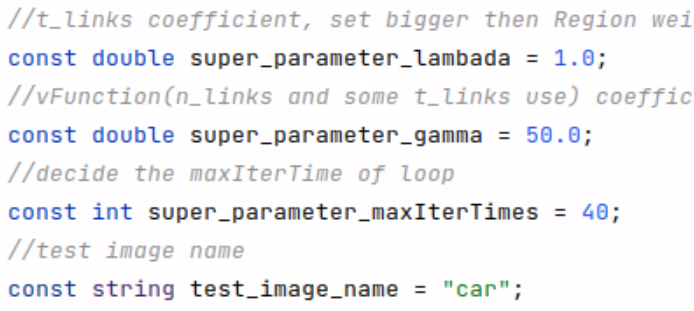
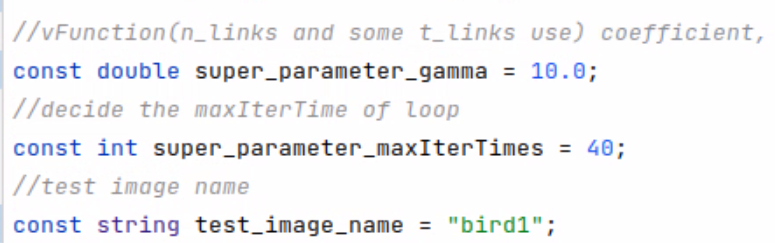
liutao

Changed region(s): [[0.0, 0.0, 1.0, 0.3745], [0.0, 0.5185, 0.9078, 1.0], [0.0, 0.4033, 0.8473, 0.4897]]

diff --git a/main.cpp b/main.cpp
@@ -10,14 +10,13 @@ Rect2d selection;
 bool isDragging = false;
 Mat image;
 
-//t_links coefficient, set bigger then Region weighs more, it should be 1.0 normally.
-const double super_parameter_lambada = 1.0;
+
 //vFunction(n_links and some t_links use) coefficient, also the max_value of vFunction, set bigger then Boundary weighs more
-const double super_parameter_gamma = 50.0;
+const double super_parameter_gamma = 10.0;
 //decide the maxIterTime of loop
 const int super_parameter_maxIterTimes = 40;
 //test image name
-const string test_image_name = "car";
+const string test_image_name = "bird1";
 
 void mouseCallback(int event, int x, int y, int flags, void* userdata)
 {
@@ -50,7 +49,7 @@ void mouseCallback(int event, int x, int y, int flags, void* userdata)
 }
 
 void grabcut_test(Mat &img, Rect2d &interst_area){
-    Segmentation segmentation(img,super_parameter_gamma,super_parameter_lambada,super_parameter_maxIterTimes);
+    Segmentation segmentation(img,super_parameter_gamma,super_parameter_maxIterTimes);
     segmentation.initByRect(interst_area);
     segmentation.iter();
     Mat fgd;

diff --git a/segmentation/segmentation.cpp b/segmentation/segmentation.cpp
@@ -142,8 +142,8 @@ void Segmentation::estimateSeg(GMM &fgd, GMM &bgd, Mat &img_k, Mat &horizontal, 
             }
             else{
                 //U(or R in iccv01) function, according to the paper equation(8)
-                cap_sink = -log(fgd.getWeightedProb(pixel)) * _lambda;
-                cap_source = -log(bgd.getWeightedProb(pixel)) * _lambda;
+                cap_sink = -log(fgd.getWeightedProb(pixel));
+                cap_source = -log(bgd.getWeightedProb(pixel));
             }
             graph.add_tweights(node_index, cap_source, cap_sink);
             add_edge_num += 2;
@@ -390,10 +390,9 @@ bool Segmentation::isSameLevel(pixelType pixelType1, pixelType pixelType2){
 }
 
 
-Segmentation::Segmentation(Mat &source_img, double gamma, double lambda, int iter_times){
+Segmentation::Segmentation(Mat &source_img, double gamma, int iter_times){
     _source_img = source_img.clone();
     _gamma = gamma;
-    _lambda = lambda;
     _max_iter_times = iter_times;
     _early_stop_flag = false;
     _total_change_rate = 0.0;

diff --git a/segmentation/segmentation.hpp b/segmentation/segmentation.hpp
@@ -26,7 +26,6 @@ private:
     Mat _T_U;
     int _max_iter_times;
     double _gamma;
-    double _lambda;
     double _beta;
     double _K;
     int _rect_area_pixel_num;
@@ -65,7 +64,7 @@ private:
 public:
 
 
-    Segmentation(Mat &source_img, double gamma, double lambda, int iter_times);
+    Segmentation(Mat &source_img, double gamma, int iter_times);
 
     void initByRect(Rect2d rect);
 
